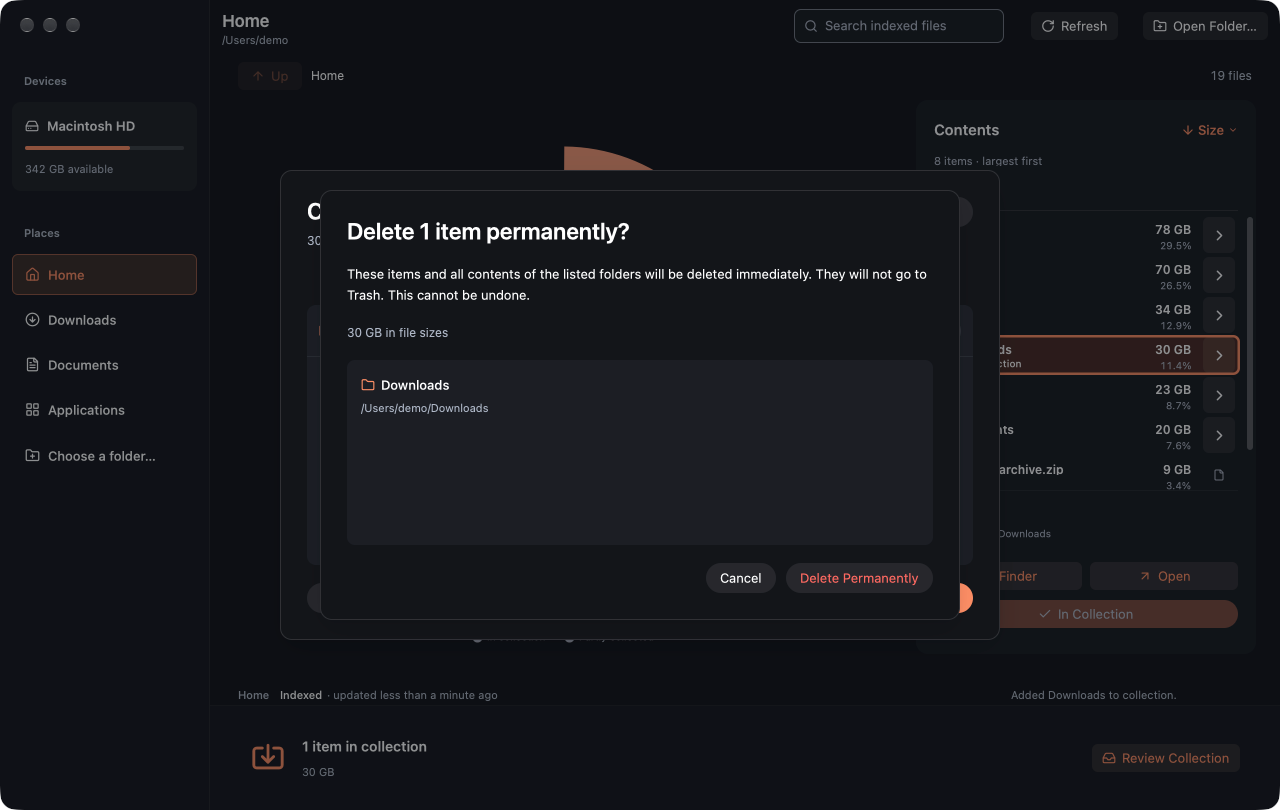
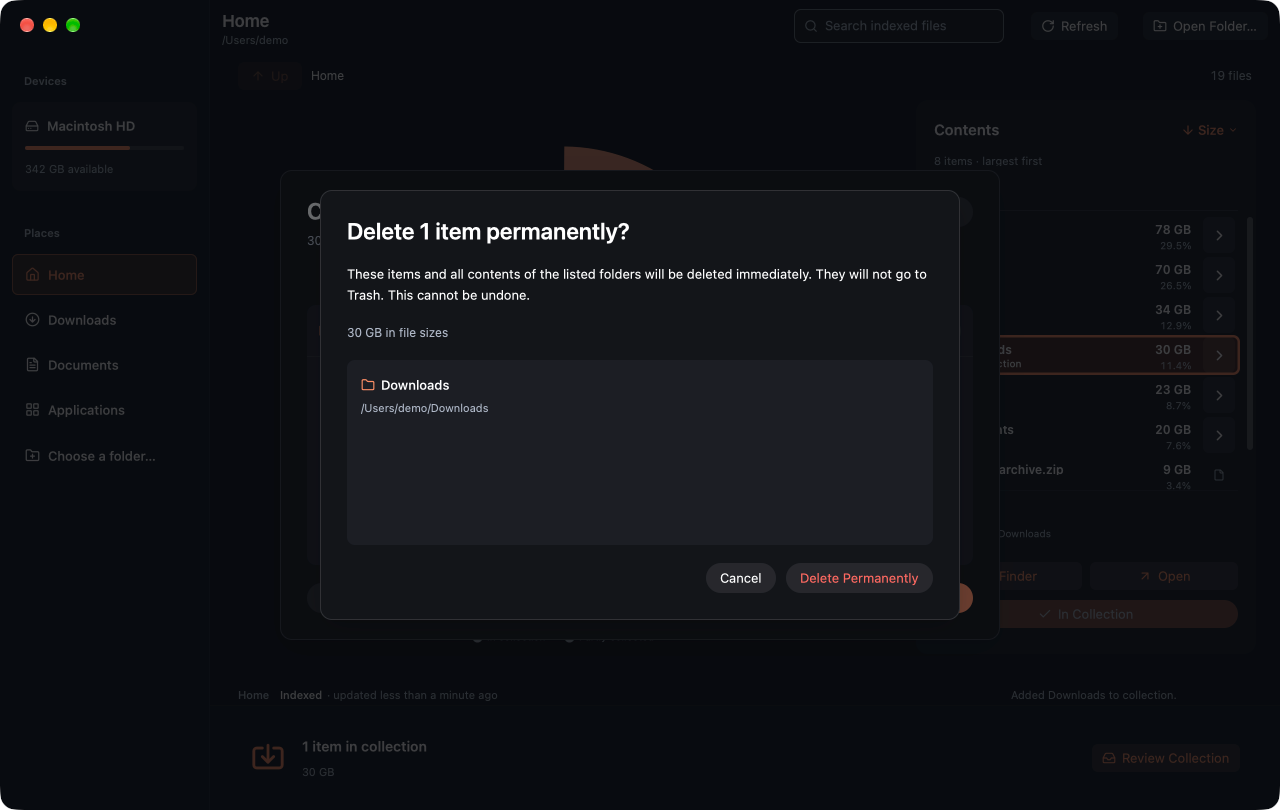
fix(ui): dim sheets that have another sheet on top; confirmation screenshot states
The review sheet peeked out around the permanent-delete confirmation with
no dimming, so both read as active. Stacked sheets now dim the one below.
Add --marketing-state trash-confirm|permanent-delete so the confirmation
sheets can be captured and checked without pointer input.

diff --git a/crates/orbit-ui/src/marketing.rs b/crates/orbit-ui/src/marketing.rs
@@ -31,10 +31,15 @@ pub enum MarketingState {
     Projects,
     /// The removal review of the collected "Downloads" (Move to Trash / Delete Permanently).
     Review,
+    /// The review with its Move to Trash confirmation open.
+    TrashConfirm,
+    /// The review with its permanent-deletion confirmation sheet open.
+    PermanentDelete,
 }
 
 impl MarketingState {
-    pub const ALL: [Self; 4] = [Self::Overview, Self::Collection, Self::Projects, Self::Review];
+    pub const ALL: [Self; 6] =
+        [Self::Overview, Self::Collection, Self::Projects, Self::Review, Self::TrashConfirm, Self::PermanentDelete];
 
     pub fn name(self) -> &'static str {
         match self {
@@ -42,6 +47,8 @@ impl MarketingState {
             Self::Collection => "collection",
             Self::Projects => "projects",
             Self::Review => "review",
+            Self::TrashConfirm => "trash-confirm",
+            Self::PermanentDelete => "permanent-delete",
         }
     }
 
@@ -55,10 +62,27 @@ impl MarketingState {
             Self::Collection => &[Step::Select(sample::DOWNLOADS), Step::Collect(sample::DOWNLOADS)],
             Self::Projects => &[Step::Open(sample::PROJECTS), Step::Select(sample::STUDIO)],
             Self::Review => &[Step::Select(sample::DOWNLOADS), Step::Collect(sample::DOWNLOADS), Step::Review],
+            Self::TrashConfirm => &[
+                Step::Select(sample::DOWNLOADS),
+                Step::Collect(sample::DOWNLOADS),
+                Step::Review,
+                Step::Confirm { permanent: false },
+            ],
+            Self::PermanentDelete => &[
+                Step::Select(sample::DOWNLOADS),
+                Step::Collect(sample::DOWNLOADS),
+                Step::Review,
+                Step::Confirm { permanent: true },
+            ],
         }
     }
 
     /// Home is mapped and every step of this state shows in `state`.
+    /// Whether this state shows a sheet.
+    fn shows_sheet(self) -> bool {
+        matches!(self, Self::Review | Self::TrashConfirm | Self::PermanentDelete)
+    }
+
     pub fn reached(self, state: &AppState) -> bool {
         home_mapped(state) && self.steps().iter().all(|step| step.done(state))
     }
@@ -84,6 +108,10 @@ enum Step {
     Open(&'static str),
     Collect(&'static str),
     Review,
+    /// Opens a confirmation from the review (a sheets-layer action, not an app event).
+    Confirm {
+        permanent: bool,
+    },
 }
 
 impl Step {
@@ -95,6 +123,14 @@ impl Step {
                 .collection()
                 .is_some_and(|collection| collection.items().iter().any(|item| *item.path == *sample::path(relative))),
             Self::Review => state.show_review(),
+            Self::Confirm { .. } => state.confirmation_lease().is_some(),
+        }
+    }
+
+    fn action(self) -> Poll {
+        match self {
+            Self::Confirm { permanent } => Poll::Confirm { permanent },
+            _ => Poll::Send(self.event()),
         }
     }
 
@@ -104,7 +140,7 @@ impl Step {
             Self::Select(relative) => Event::Select { path: Some(path(relative)) },
             Self::Open(relative) => Event::Open { path: path(relative) },
             Self::Collect(relative) => Event::Collect { paths: vec![path(relative)] },
-            Self::Review => Event::BeginReview,
+            Self::Review | Self::Confirm { .. } => Event::BeginReview,
         }
     }
 }
@@ -124,6 +160,10 @@ pub struct WindowFacts {
 #[derive(Debug)]
 pub enum Poll {
     Send(Event),
+    /// Open the review's trash (`false`) or permanent-delete (`true`) confirmation.
+    Confirm {
+        permanent: bool,
+    },
     Wait,
     /// The state is reached and nothing is pending.
     Settled,
@@ -162,7 +202,7 @@ impl Director {
                 return Poll::Wait;
             }
             self.sent = true;
-            return Poll::Send(step.event());
+            return step.action();
         }
         let idle = host.in_flight() == 0
             && !state.is_opening()
@@ -171,7 +211,7 @@ impl Director {
             && !state.is_sorting_rows()
             && state.error().is_none()
             && self.target.reached(state)
-            && window.sheet_open == (self.target == MarketingState::Review)
+            && window.sheet_open == self.target.shows_sheet()
             && !window.animating
             && window.sized;
         if !idle {
@@ -251,6 +291,11 @@ pub fn drive(
                 match director.poll(host.read(cx), facts) {
                     Poll::Send(event) => {
                         host.send(event, cx);
+                        false
+                    }
+                    Poll::Confirm { permanent } => {
+                        let sheets = panels.sheets.clone();
+                        sheets.update(cx, |sheets, cx| sheets.open_confirmation(permanent, cx));
                         false
                     }
                     Poll::Wait => false,

diff --git a/crates/orbit-ui/src/sheets/mod.rs b/crates/orbit-ui/src/sheets/mod.rs
@@ -223,6 +223,14 @@ impl SheetsLayer {
     // -----------------------------------------------------------------------------------------
     // Confirmations.
 
+    /// Opens the review's trash or permanent-delete confirmation as if its button was clicked
+    /// (screenshot states). Does nothing unless the review is open and allows it.
+    pub fn open_confirmation(&mut self, permanent: bool, cx: &mut Context<Self>) {
+        let Some(review) = self.host.state(cx).review_token() else { return };
+        let kind = if permanent { ConfirmKind::Permanent } else { ConfirmKind::Trash };
+        self.begin_confirmation(kind, review, cx);
+    }
+
     /// "Move to Trash…" / "Delete Permanently…" in the review: takes the confirmation lease and
     /// captures the reviewed items.
     fn begin_confirmation(&mut self, kind: ConfirmKind, review: ReviewToken, cx: &mut Context<Self>) {
@@ -339,7 +347,10 @@ impl Render for SheetsLayer {
                     .flex()
                     .items_center()
                     .justify_center()
+                    // The first backdrop dims the window; each stacked sheet dims the sheet below it
+                    // as well, so only the top card reads as active.
                     .when(index == 0, |el| el.bg(theme::with_alpha(theme::INK, theme::SHEET_BACKDROP_ALPHA)))
+                    .when(index > 0, |el| el.bg(theme::with_alpha(theme::INK, theme::STACKED_SHEET_BACKDROP_ALPHA)))
                     // Nothing below the backdrop sees the pointer: no hover, cursor, click or scroll.
                     .occlude()
                     .when(top, |el| el.on_mouse_down(MouseButton::Left, cx.listener(Self::outside_mouse_down)))

diff --git a/apps/orbit-disk/src/args.rs b/apps/orbit-disk/src/args.rs
@@ -23,7 +23,7 @@ pub struct Args {
 }
 
 const USAGE: &str = "usage: OrbitDisk [--fixture] [--fixture-entries N] [--scan PATH] [--frame-harness [SCRIPT]]
-                 [--marketing-state overview|collection|projects|review] [--appearance dark] [--window-size WxH]
+                 [--marketing-state overview|collection|projects|review|trash-confirm|permanent-delete] [--appearance dark] [--window-size WxH]
 
   --marketing-state STATE  show a README screenshot state on the sample Home (implies --fixture,
                            in-memory settings, reduced motion); prints `marketing-state: ready` on

diff --git a/crates/orbit-ui/src/theme.rs b/crates/orbit-ui/src/theme.rs
@@ -248,6 +248,8 @@ pub fn format_age(age: std::time::Duration) -> String {
 pub const DESTRUCTIVE: u32 = 0xff6961;
 /// Dim of the window behind the lowest open sheet.
 pub const SHEET_BACKDROP_ALPHA: f32 = 0.45;
+/// Extra dimming over a sheet that has another sheet stacked on top of it.
+pub const STACKED_SHEET_BACKDROP_ALPHA: f32 = 0.6;
 /// Collection review (720 × 470).
 pub const REVIEW_SHEET: (f32, f32) = (720., 470.);
 /// Permanent-delete confirmation (640 × 430).
